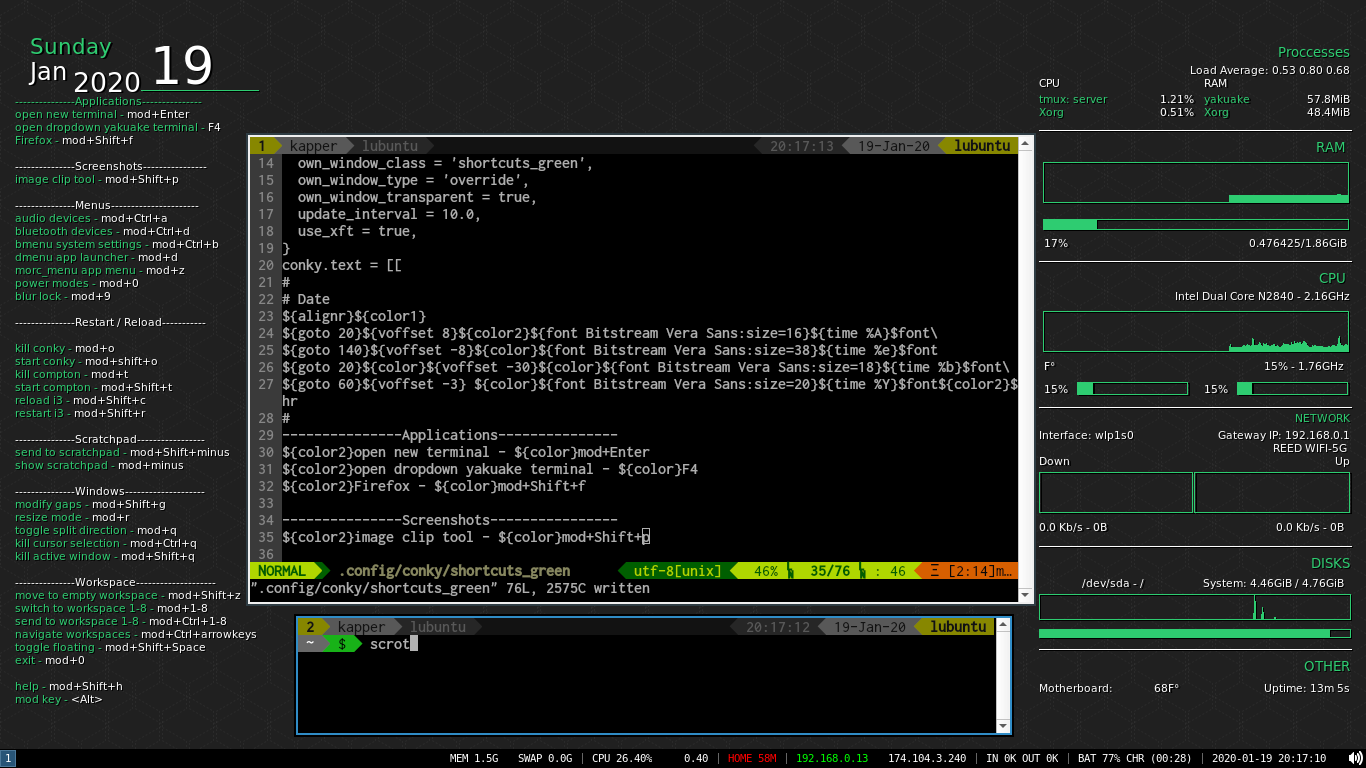
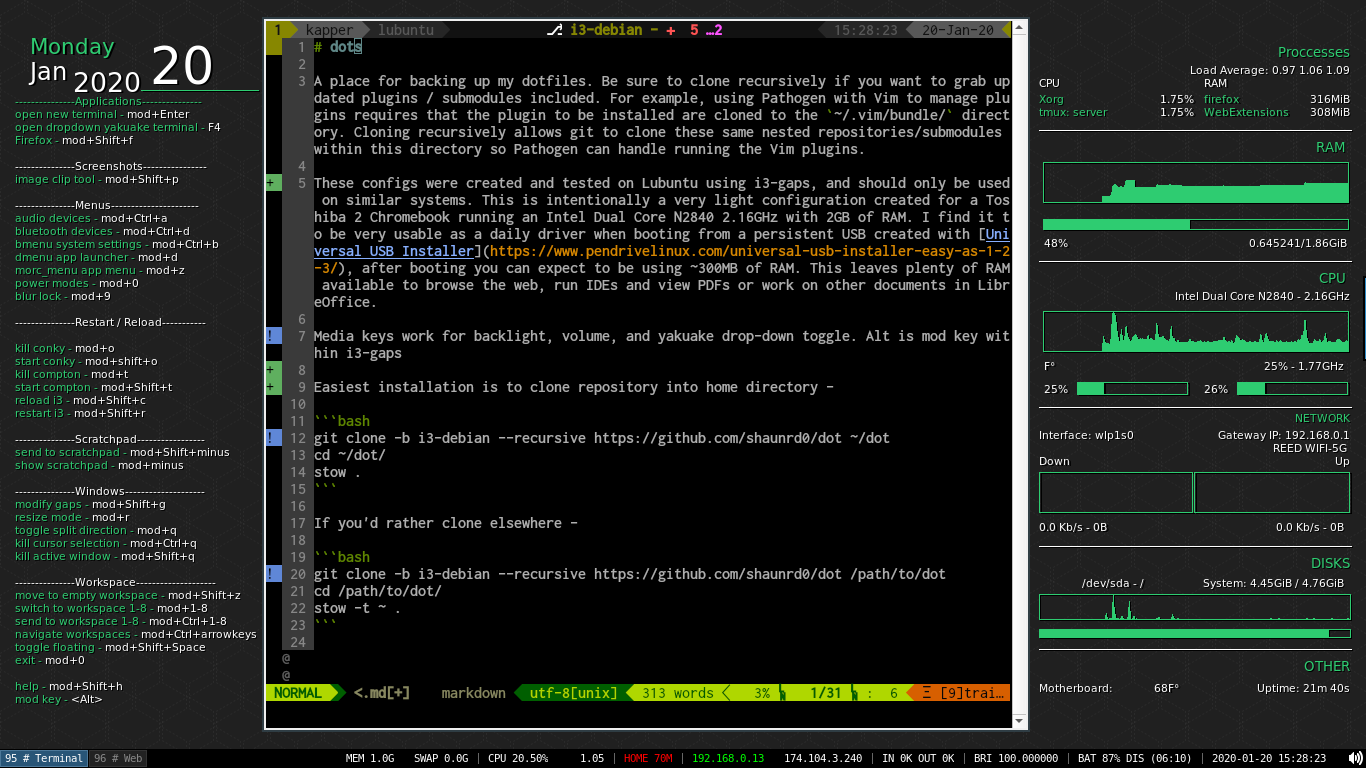
Update README, screens for debian branch

diff --git a/README.md b/README.md
@@ -2,11 +2,14 @@
 
 A place for backing up my dotfiles. Be sure to clone recursively if you want to grab updated plugins / submodules included. For example, using Pathogen with Vim to manage plugins requires that the plugin to be installed are cloned to the `~/.vim/bundle/` directory. Cloning recursively allows git to clone these same nested repositories/submodules within this directory so Pathogen can handle running the Vim plugins.
 
+These configs were created and tested on Lubuntu using i3-gaps, and should only be used on similar systems. This is intentionally a very light configuration created for a Toshiba 2 Chromebook running an Intel Dual Core N2840 2.16GHz with 2GB of RAM. I find it to be very usable as a daily driver when booting from a persistent USB created with [Universal USB Installer](https://www.pendrivelinux.com/universal-usb-installer-easy-as-1-2-3/), after booting you can expect to be using ~300MB of RAM. This leaves plenty of RAM available to browse the web, run IDEs and view PDFs or work on other documents in LibreOffice.
 
-These configs were created and tested on Manjaro Linux using i3wm, and should only be used on similar systems. Easiest installation is to clone repository into home directory - 
+Media keys work for backlight, volume, and yakuake drop-down toggle. Alt is mod key within i3-gaps
+
+Easiest installation is to clone repository into home directory - 
 
 ```bash
-git clone --recursive https://github.com/shaunrd0/dot ~/dot
+git clone -b i3-debian --recursive https://github.com/shaunrd0/dot ~/dot
 cd ~/dot/
 stow .
 ```
@@ -14,7 +17,7 @@ stow .
 If you'd rather clone elsewhere - 
 
 ```bash
-git clone --recursive https://github.com/shaunrd0/dot /path/to/dot
+git clone -b i3-debian --recursive https://github.com/shaunrd0/dot /path/to/dot
 cd /path/to/dot/
 stow -t ~ .
 ```
@@ -24,4 +27,5 @@ Note that the `dot/packages/` directory is for reference and is the only directo
 `stow --adopt .` can be used to install conflicting files, but doing so will result in the loss of your local configurations. If you want to keep them, back up the conflicting files output in the error message before running this command.
 
 ![desktop](screens/dtop.png)
+
 
